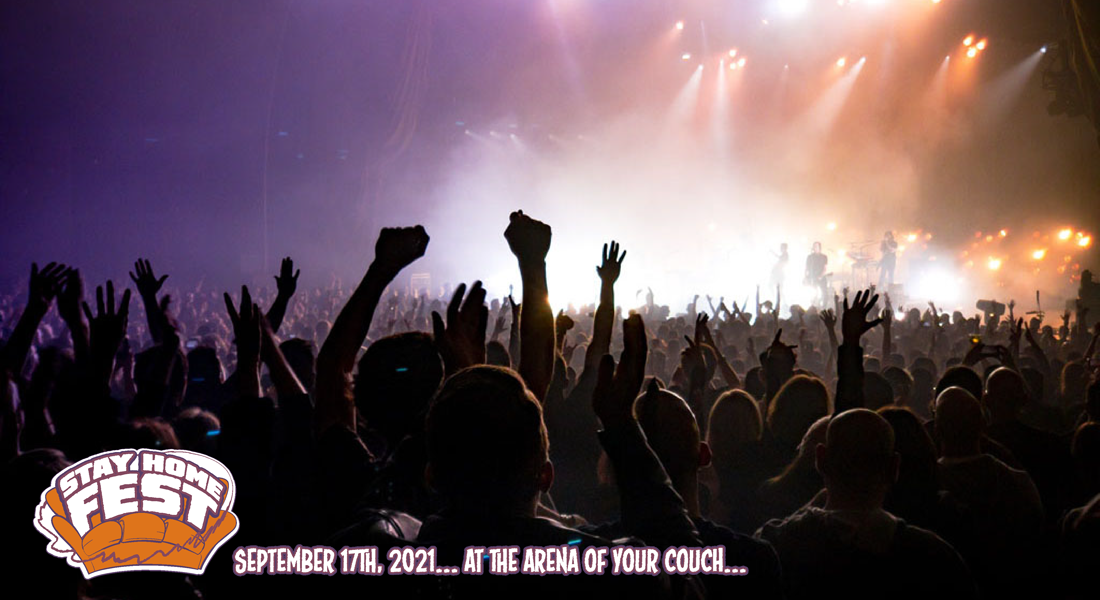
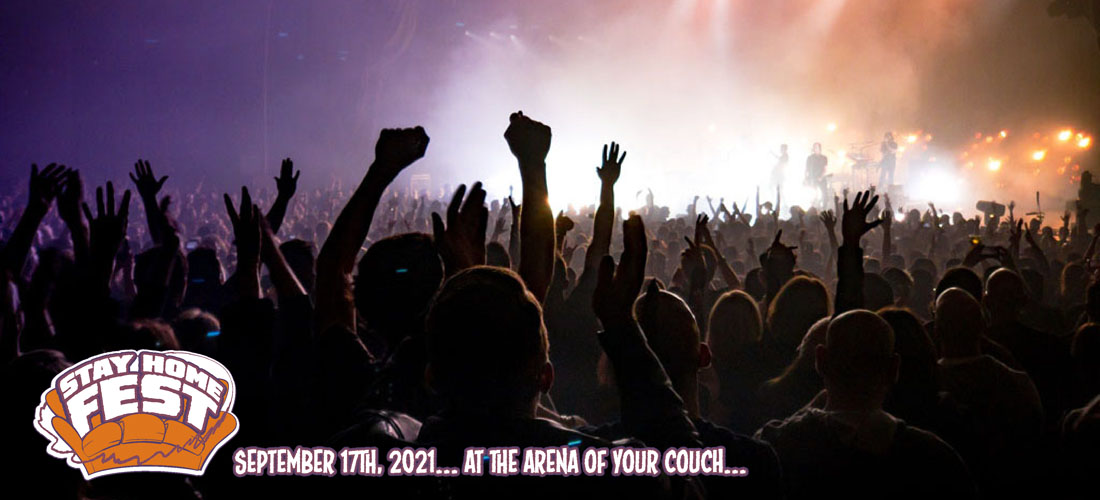
Redirected CSS to styles folder
I redirected CSS and modernizr links to Assets folder, added <ul> to the nav (it was causing an error in the validator website), made the hero image a little shorter, and filled "lorum ipsum" dummy text in the tickets, lineup, about, and contact page.

diff --git a/about.html b/about.html
@@ -12,27 +12,34 @@
         -->
         <meta charset="UTF-8">
         <meta name="viewport" content="width=device-width, initial-scale=1.0">
-        <link rel="stylesheet" href="./styles.css">
-        <script src="modernizr.custom.40753.js"></script>
+        <link rel="stylesheet" href="Assets/styles/styles.css">
+        <script src="Assets/JavaScript/modernizr.custom.40753.js"></script>
     </head>
     <body>
         <div class="container">
             <p class="skipnavigation"><a href="#contentstart">Skip navigation</a></p>
             <header class="hero">
+                <a href="index.html"><img src="Assets/images/hero_img.png" alt="Stay Home Fest" /></a>
                 <h1>Stay Home Fest</h1>
             </header>
             <nav class="sitenavigation">
+              <ul>
                 <li><a href="index.html">Home</a></li>
                 <li><a href="about.html">About Us</a></li>
                 <li><a href="lineup.html">Lineup</a></li>
                 <li><a href="tickets.html">Tickets</a></li>
                 <li><a href="contact.html">Contact US</a></li>
+              </ul>
             </nav>
+            <article class="maincontent">
             <h2>About Page</h2>
+
+            <p> Lorem ipsum dolor sit amet, consectetur adipisicing elit, sed do eiusmod tempor incididunt ut labore et dolore magna aliqua. Ut enim ad minim veniam, quis nostrud exercitation ullamco laboris nisi ut aliquip ex ea commodo consequat. Duis aute irure dolor in reprehenderit in voluptate velit esse cillum dolore eu fugiat nulla pariatur. Excepteur sint occaecat cupidatat non proident, sunt in culpa qui officia deserunt mollit anim id est laborum.</p>
             <br>
             <br>
+          </article>
             <footer>
-                <p>315 Bowery &#8226; New York, NY 10003 &#8226; (998) 887-9008 </p>
+              <p>315 Bowery &#8226; New York, NY 10003 &#8226; (998) 887-9008 </p>
             </footer>
         </div>
     </body>

diff --git a/lineup.html b/lineup.html
@@ -12,27 +12,31 @@
         -->
         <meta charset="UTF-8">
         <meta name="viewport" content="width=device-width, initial-scale=1.0">
-        <link rel="stylesheet" href="./styles.css">
-        <script src="modernizr.custom.40753.js"></script>
+        <link rel="stylesheet" href="Assets/styles/styles.css">
+        <script src="Assets/JavaScript/modernizr.custom.40753.js"></script>
     </head>
     <body>
         <div class="container">
             <p class="skipnavigation"><a href="#contentstart">Skip navigation</a></p>
             <header class="hero">
+              <a href="index.html"><img src="Assets/images/hero_img.png" alt="Stay Home Fest" /></a>
                 <h1>Stay Home Fest</h1>
             </header>
             <nav class="sitenavigation">
+              <ul>
                 <li><a href="index.html">Home</a></li>
                 <li><a href="about.html">About Us</a></li>
                 <li><a href="lineup.html">Lineup</a></li>
                 <li><a href="tickets.html">Tickets</a></li>
                 <li><a href="contact.html">Contact US</a></li>
+              </ul>
             </nav>
+            <article class="maincontent">
             <h2>Lineup Page</h2>
-            <br>
-            <br>
+            <p> Lorem ipsum dolor sit amet, consectetur adipisicing elit, sed do eiusmod tempor incididunt ut labore et dolore magna aliqua. Ut enim ad minim veniam, quis nostrud exercitation ullamco laboris nisi ut aliquip ex ea commodo consequat. Duis aute irure dolor in reprehenderit in voluptate velit esse cillum dolore eu fugiat nulla pariatur. Excepteur sint occaecat cupidatat non proident, sunt in culpa qui officia deserunt mollit anim id est laborum.</p>
+            </article>
             <footer>
-                <p>315 Bowery &#8226; New York, NY 10003 &#8226; (998) 887-9008 </p>
+              <p>315 Bowery &#8226; New York, NY 10003 &#8226; (998) 887-9008 </p>
             </footer>
         </div>
     </body>

diff --git a/contact.html b/contact.html
@@ -12,27 +12,31 @@
         -->
         <meta charset="UTF-8">
         <meta name="viewport" content="width=device-width, initial-scale=1.0">
-        <link rel="stylesheet" href="./styles.css">
-        <script src="modernizr.custom.40753.js"></script>
+        <link rel="stylesheet" href="Assets/styles/styles.css">
+        <script src="Assets/JavaScript/modernizr.custom.40753.js"></script>
     </head>
     <body>
         <div class="container">
             <p class="skipnavigation"><a href="#contentstart">Skip navigation</a></p>
             <header class="hero">
+              <a href="index.html"><img src="Assets/images/hero_img.png" alt="Stay Home Fest" /></a>
                 <h1>Stay Home Fest</h1>
             </header>
             <nav class="sitenavigation">
+              <ul>
                 <li><a href="index.html">Home</a></li>
                 <li><a href="about.html">About Us</a></li>
                 <li><a href="lineup.html">Lineup</a></li>
                 <li><a href="tickets.html">Tickets</a></li>
                 <li><a href="contact.html">Contact US</a></li>
+              </ul>
             </nav>
+            <article class="maincontent">
             <h2>Contact Page</h2>
-            <br>
-            <br>
+            <p> Lorem ipsum dolor sit amet, consectetur adipisicing elit, sed do eiusmod tempor incididunt ut labore et dolore magna aliqua. Ut enim ad minim veniam, quis nostrud exercitation ullamco laboris nisi ut aliquip ex ea commodo consequat. Duis aute irure dolor in reprehenderit in voluptate velit esse cillum dolore eu fugiat nulla pariatur. Excepteur sint occaecat cupidatat non proident, sunt in culpa qui officia deserunt mollit anim id est laborum.</p>
+          </article>
             <footer>
-                <p>315 Bowery &#8226; New York, NY 10003 &#8226; (998) 887-9008 </p>
+              <p>315 Bowery &#8226; New York, NY 10003 &#8226; (998) 887-9008 </p>
             </footer>
         </div>
     </body>

diff --git a/tickets.html b/tickets.html
@@ -12,27 +12,31 @@
         -->
         <meta charset="UTF-8">
         <meta name="viewport" content="width=device-width, initial-scale=1.0">
-        <link rel="stylesheet" href="./styles.css">
-        <script src="modernizr.custom.40753.js"></script>
+        <link rel="stylesheet" href="Assets/styles/styles.css">
+        <script src="Assets/JavaScript/modernizr.custom.40753.js"></script>
     </head>
     <body>
         <div class="container">
             <p class="skipnavigation"><a href="#contentstart">Skip navigation</a></p>
             <header class="hero">
+              <a href="index.html"><img src="Assets/images/hero_img.png" alt="Stay Home Fest" /></a>
                 <h1>Stay Home Fest</h1>
             </header>
             <nav class="sitenavigation">
+              <ul>
                 <li><a href="index.html">Home</a></li>
                 <li><a href="about.html">About Us</a></li>
                 <li><a href="lineup.html">Lineup</a></li>
                 <li><a href="tickets.html">Tickets</a></li>
                 <li><a href="contact.html">Contact US</a></li>
+              </ul>
             </nav>
+            <article class="maincontent">
             <h2>Tickets Page</h2>
-            <br>
-            <br>
+            <p> Lorem ipsum dolor sit amet, consectetur adipisicing elit, sed do eiusmod tempor incididunt ut labore et dolore magna aliqua. Ut enim ad minim veniam, quis nostrud exercitation ullamco laboris nisi ut aliquip ex ea commodo consequat. Duis aute irure dolor in reprehenderit in voluptate velit esse cillum dolore eu fugiat nulla pariatur. Excepteur sint occaecat cupidatat non proident, sunt in culpa qui officia deserunt mollit anim id est laborum.</p>
+          </article>
             <footer>
-                <p>315 Bowery &#8226; New York, NY 10003 &#8226; (998) 887-9008 </p>
+              <p>315 Bowery &#8226; New York, NY 10003 &#8226; (998) 887-9008 </p>
             </footer>
         </div>
     </body>

diff --git a/index.html b/index.html
@@ -13,7 +13,7 @@
         <meta charset="UTF-8">
         <meta name="viewport" content="width=device-width, initial-scale=1.0">
         <link rel="stylesheet" href="Assets/styles/styles.css">
-        <script src="modernizr.custom.40753.js"></script>
+        <script src="Assets/JavaScript/modernizr.custom.40753.js"></script>
     </head>
     <body>
         <div class="container">
@@ -23,11 +23,13 @@
                 <h1>Stay Home Fest</h1>
             </header>
             <nav class="sitenavigation">
+              <ul>
                 <li><a href="index.html">Home</a></li>
                 <li><a href="about.html">About Us</a></li>
                 <li><a href="lineup.html">Lineup</a></li>
                 <li><a href="tickets.html">Tickets</a></li>
                 <li><a href="contact.html">Contact US</a></li>
+              </ul>
             </nav>
             <article class="maincontent">
             <h2>Stay Home Fest... Are You Ready To Go Home?</h2>
@@ -56,7 +58,7 @@
             </p>
             </article>
             <footer>
-                <p id="footertext">315 Bowery &#8226; New York, NY 10003 &#8226; (998) 887-9008 </p>
+                <p>315 Bowery &#8226; New York, NY 10003 &#8226; (998) 887-9008 </p>
             </footer>
         </div>
     </body>

diff --git a/Assets/styles/styles.css b/Assets/styles/styles.css
@@ -49,9 +49,8 @@ header {
     align-content: flex-end;
 }
 header.hero {
-    /*background-image: url("http://www.fillmurray.com/g/1100/600");*/
     background-color: #000;
-    height: 600px;
+    height: 500px;
 }
 header h1 { /* To block out "Stay Home Fest" since it's written in the hero img */
   display: none;
@@ -123,10 +122,7 @@ article a {
   text-decoration: none;
 }
 /* footer */
-footer {
-    /*background-color: #fea837;*/
-}
-#footertext{
+footer{
   padding: 1% 1% 1% 5%;
   background-color: white;
   margin: 10px 15px 15px;
